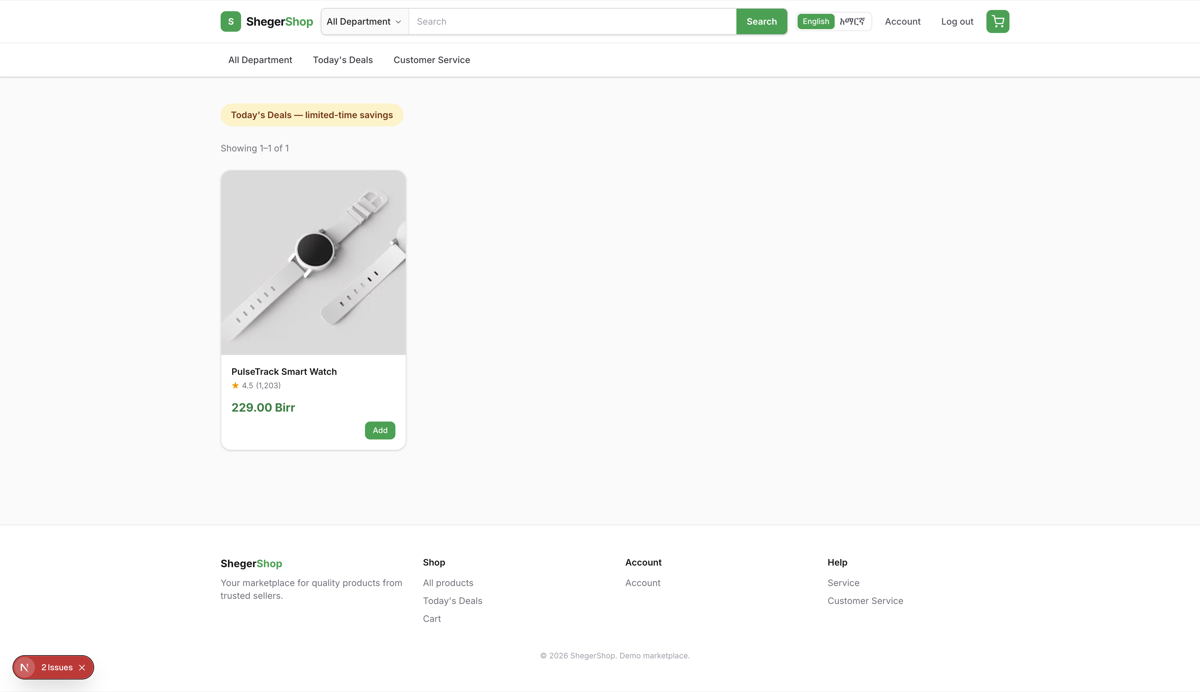
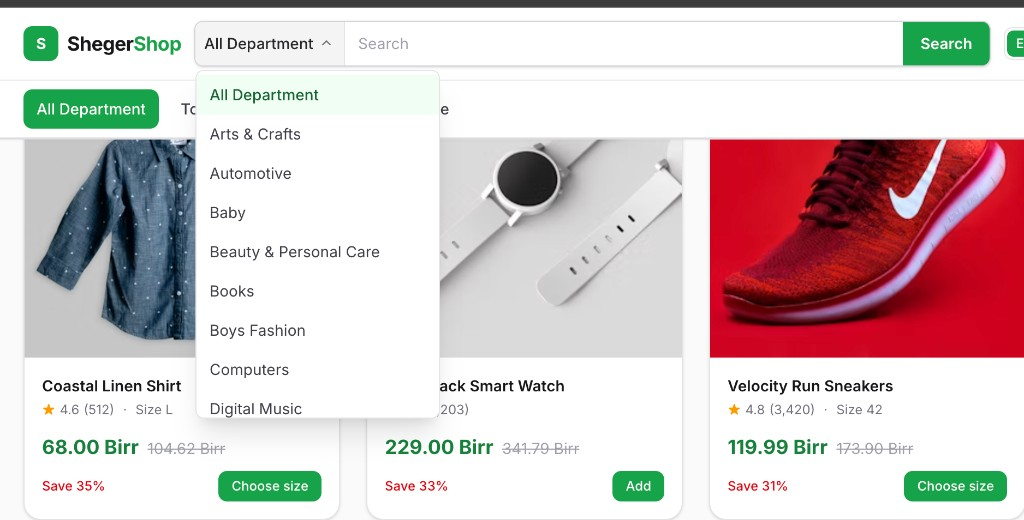
Expand buyer onboarding to a 7-step purchase tour with live screenshots.
Use DB-backed status so the tour still shows when the session JWT is stale, and allow /onboarding images via next/image.

diff --git a/src/components/onboarding/BuyerOnboardingTour.tsx b/src/components/onboarding/BuyerOnboardingTour.tsx
@@ -7,13 +7,24 @@ import { useTranslations } from "@/context/LocaleContext";
 import { useAuth } from "@/hooks/useAuth";
 import { isBuyerRole } from "@/lib/user-role";
 
-const STEP_KEYS = ["welcome", "search", "cart", "account"] as const;
+const STEP_KEYS = [
+  "welcome",
+  "search",
+  "addToCart",
+  "checkout",
+  "deliveryAddress",
+  "payment",
+  "confirmation",
+] as const;
 
 const STEP_IMAGES: Record<(typeof STEP_KEYS)[number], string> = {
   welcome: "/onboarding/welcome.png",
   search: "/onboarding/search.png",
-  cart: "/onboarding/cart.png",
-  account: "/onboarding/account.png",
+  addToCart: "/onboarding/add-to-cart.png",
+  checkout: "/onboarding/checkout.png",
+  deliveryAddress: "/onboarding/delivery-address.png",
+  payment: "/onboarding/payment.png",
+  confirmation: "/onboarding/confirmation.png",
 };
 
 export function BuyerOnboardingTour() {
@@ -30,13 +41,43 @@ export function BuyerOnboardingTour() {
       setOpen(false);
       return;
     }
-    if (user.buyerOnboardingDone) {
-      setOpen(false);
-      return;
-    }
-    setOpen(true);
-    setStep(0);
-  }, [isReady, user, user?.role, user?.buyerOnboardingDone]);
+
+    let cancelled = false;
+    void (async () => {
+      try {
+        const res = await fetch("/api/account/onboarding", {
+          method: "GET",
+          credentials: "same-origin",
+          cache: "no-store",
+        });
+        if (!res.ok) {
+          if (!cancelled && !user.buyerOnboardingDone) {
+            setOpen(true);
+            setStep(0);
+          }
+          return;
+        }
+        const data = (await res.json()) as { buyerOnboardingDone?: boolean };
+        if (cancelled) return;
+        if (data.buyerOnboardingDone) {
+          setOpen(false);
+          if (!user.buyerOnboardingDone) void update().catch(() => undefined);
+          return;
+        }
+        setOpen(true);
+        setStep(0);
+      } catch {
+        if (!cancelled && !user.buyerOnboardingDone) {
+          setOpen(true);
+          setStep(0);
+        }
+      }
+    })();
+
+    return () => {
+      cancelled = true;
+    };
+  }, [isReady, user, user?.role, user?.buyerOnboardingDone, update]);
 
   const complete = useCallback(async () => {
     if (saving) return;
@@ -63,91 +104,95 @@ export function BuyerOnboardingTour() {
 
   return (
     <div
-      className="fixed inset-0 z-[80] flex items-end justify-center bg-zinc-900/50 p-4 sm:items-center"
+      className="fixed inset-0 z-[80] flex items-end justify-center bg-zinc-900/50 p-3 sm:items-center sm:p-4"
       role="dialog"
       aria-modal="true"
       aria-labelledby="buyer-onboarding-title"
     >
-      <div className="flex max-h-[92vh] w-full max-w-md flex-col overflow-hidden rounded-2xl bg-white shadow-2xl sm:max-w-2xl md:max-w-3xl">
-        <div className="relative aspect-[16/10] w-full shrink-0 bg-zinc-100 sm:aspect-[16/9]">
+      <div className="flex w-full max-w-md flex-col overflow-hidden rounded-2xl bg-white shadow-2xl sm:max-w-3xl sm:flex-row">
+        <div className="relative h-40 w-full shrink-0 bg-zinc-100 sm:h-auto sm:w-[48%] sm:min-h-[280px]">
           <Image
             src={STEP_IMAGES[key]}
             alt=""
             fill
             priority
             className="object-cover object-top"
-            sizes="(max-width: 640px) 100vw, 768px"
+            sizes="(max-width: 640px) 100vw, 420px"
           />
         </div>
 
-        <div className="overflow-y-auto p-6 sm:p-8 md:p-10">
-          <p className="text-xs font-semibold uppercase tracking-wide text-brand-600 sm:text-sm">
-            {t("onboarding.stepOf", { current: step + 1, total })}
-          </p>
-          <h2
-            id="buyer-onboarding-title"
-            className="mt-2 text-xl font-bold text-zinc-900 sm:mt-3 sm:text-3xl"
-          >
-            {t(`onboarding.steps.${key}.title`)}
-          </h2>
-          <p className="mt-3 text-sm leading-relaxed text-zinc-600 sm:mt-4 sm:text-lg sm:leading-relaxed">
-            {t(`onboarding.steps.${key}.body`)}
-          </p>
-
-          <div className="mt-6 flex gap-1.5 sm:mt-8 sm:gap-2" aria-hidden>
-            {STEP_KEYS.map((_, i) => (
-              <span
-                key={STEP_KEYS[i]}
-                className={`h-1.5 flex-1 rounded-full sm:h-2 ${
-                  i <= step ? "bg-brand-600" : "bg-zinc-200"
-                }`}
-              />
-            ))}
+        <div className="flex flex-1 flex-col justify-between gap-4 p-5 sm:gap-5 sm:p-7">
+          <div>
+            <p className="text-xs font-semibold uppercase tracking-wide text-brand-600">
+              {t("onboarding.stepOf", { current: step + 1, total })}
+            </p>
+            <h2
+              id="buyer-onboarding-title"
+              className="mt-1.5 text-lg font-bold text-zinc-900 sm:text-2xl"
+            >
+              {t(`onboarding.steps.${key}.title`)}
+            </h2>
+            <p className="mt-2 text-sm leading-relaxed text-zinc-600 sm:text-base">
+              {t(`onboarding.steps.${key}.body`)}
+            </p>
           </div>
 
-          <div className="mt-8 flex flex-col gap-3 sm:mt-10 sm:flex-row-reverse sm:items-center sm:gap-4">
-            <button
-              type="button"
-              disabled={saving}
-              onClick={() => {
-                if (isLast) void complete();
-                else setStep((s) => s + 1);
-              }}
-              className="w-full rounded-xl bg-brand-600 py-3.5 text-sm font-semibold text-white transition hover:bg-brand-700 disabled:opacity-60 sm:flex-1 sm:py-4 sm:text-base"
-            >
-              {isLast ? t("onboarding.startShopping") : t("onboarding.next")}
-            </button>
-            {step > 0 ? (
+          <div>
+            <div className="mb-4 flex gap-1" aria-hidden>
+              {STEP_KEYS.map((_, i) => (
+                <span
+                  key={STEP_KEYS[i]}
+                  className={`h-1.5 flex-1 rounded-full ${
+                    i <= step ? "bg-brand-600" : "bg-zinc-200"
+                  }`}
+                />
+              ))}
+            </div>
+
+            <div className="flex flex-col gap-2 sm:flex-row-reverse sm:items-center sm:gap-3">
               <button
                 type="button"
                 disabled={saving}
-                onClick={() => setStep((s) => s - 1)}
-                className="w-full rounded-xl border border-zinc-300 py-3.5 text-sm font-semibold text-zinc-700 transition hover:bg-zinc-50 disabled:opacity-60 sm:w-auto sm:px-8 sm:py-4 sm:text-base"
+                onClick={() => {
+                  if (isLast) void complete();
+                  else setStep((s) => s + 1);
+                }}
+                className="w-full rounded-xl bg-brand-600 py-3 text-sm font-semibold text-white transition hover:bg-brand-700 disabled:opacity-60 sm:flex-1"
               >
-                {t("onboarding.back")}
+                {isLast ? t("onboarding.startShopping") : t("onboarding.next")}
               </button>
-            ) : (
+              {step > 0 ? (
+                <button
+                  type="button"
+                  disabled={saving}
+                  onClick={() => setStep((s) => s - 1)}
+                  className="w-full rounded-xl border border-zinc-300 py-3 text-sm font-semibold text-zinc-700 transition hover:bg-zinc-50 disabled:opacity-60 sm:w-auto sm:px-6"
+                >
+                  {t("onboarding.back")}
+                </button>
+              ) : (
+                <button
+                  type="button"
+                  disabled={saving}
+                  onClick={() => void complete()}
+                  className="w-full rounded-xl border border-zinc-300 py-3 text-sm font-semibold text-zinc-700 transition hover:bg-zinc-50 disabled:opacity-60 sm:w-auto sm:px-6"
+                >
+                  {t("onboarding.skip")}
+                </button>
+              )}
+            </div>
+
+            {step > 0 && (
               <button
                 type="button"
                 disabled={saving}
                 onClick={() => void complete()}
-                className="w-full rounded-xl border border-zinc-300 py-3.5 text-sm font-semibold text-zinc-700 transition hover:bg-zinc-50 disabled:opacity-60 sm:w-auto sm:px-8 sm:py-4 sm:text-base"
+                className="mt-2 w-full py-1.5 text-center text-sm font-medium text-zinc-500 hover:text-zinc-700 disabled:opacity-60"
               >
                 {t("onboarding.skip")}
               </button>
             )}
           </div>
-
-          {step > 0 && (
-            <button
-              type="button"
-              disabled={saving}
-              onClick={() => void complete()}
-              className="mt-3 w-full py-2 text-center text-sm font-medium text-zinc-500 hover:text-zinc-700 disabled:opacity-60 sm:mt-4 sm:text-base"
-            >
-              {t("onboarding.skip")}
-            </button>
-          )}
         </div>
       </div>
     </div>

diff --git a/src/i18n/messages/am.ts b/src/i18n/messages/am.ts
@@ -209,13 +209,25 @@ export const am: Messages = {
         title: "የሚፈልጉትን ይፈልጉ",
         body: "በላይ ያለውን የፍለጋ አሞሌ በመጠቀም በስም ይፈልጉ ወይም በክፍል ያስሱ።",
       },
-      cart: {
-        title: "ጋሪ እና ክፍያ",
-        body: "እቃዎችን ወደ ጋሪዎ ያክሉ ከዚያ ክፍያ ያጠናቁ። በቴሌብር፣ ቻፓ ወይም በማድረሻ ጊዜ በጥሬ ገንዘብ (COD) መክፈል ይችላሉ።",
+      addToCart: {
+        title: "ወደ ጋሪ ያክሉ",
+        body: "ምርትን ይክፈቱ እና ወደ ጋሪ ያክሉን ይጫኑ። ለክፍያ እስኪዘጋጁ ድረስ እቃዎችዎ ይቀመጣሉ።",
       },
-      account: {
-        title: "መለያዎ",
-        body: "ትዕዛዞችን ለመከታተል፣ መገለጫዎን ለማዘመን እና ዝርዝሮችዎን ለማስተዳደር መለያን ይክፈቱ።",
+      checkout: {
+        title: "ክፍያ",
+        body: "ጋሪዎን ይክፈቱ እና የማድረሻ ዝርዝር ለማስገባት እና ትዕዛዝ ለማስቀመጥ ወደ ክፍያ ይቀጥሉ።",
+      },
+      deliveryAddress: {
+        title: "የማድረሻ አድራሻ ያክሉ",
+        body: "ክልልዎን እና አካባቢዎን ይምረጡ፣ ከዚያ ኩሪየሩ እንዲያገኝዎ የመንገድ አቅጣጫ ያክሉ።",
+      },
+      payment: {
+        title: "ክፍያ ይምረጡ",
+        body: "በቴሌብር፣ ቻፓ ወይም ትዕዛዝዎ ሲደርስ በማድረሻ ጊዜ በጥሬ ገንዘብ (COD) ይክፈሉ።",
+      },
+      confirmation: {
+        title: "የትዕዛዝ ማረጋገጫ",
+        body: "ትዕዛዝ ካስቀመጡ በኋላ የማረጋገጫ ገጽ ያያሉ እና ከመለያ በማንኛውም ጊዜ መከታተል ይችላሉ።",
       },
     },
   },

diff --git a/src/i18n/messages/en.ts b/src/i18n/messages/en.ts
@@ -203,13 +203,25 @@ export const en = {
         title: "Search for what you need",
         body: "Use the search bar at the top to find products by name or browse by department.",
       },
-      cart: {
-        title: "Cart and checkout",
-        body: "Add items to your cart, then checkout. You can pay with Telebirr, Chapa, or cash on delivery (COD).",
+      addToCart: {
+        title: "Add to cart",
+        body: "Open a product and tap Add to cart. Your items are saved until you are ready to checkout.",
       },
-      account: {
-        title: "Your account",
-        body: "Open Account to track orders, update your profile, and manage your details anytime.",
+      checkout: {
+        title: "Checkout",
+        body: "Open your cart and proceed to checkout to enter delivery details and place your order.",
+      },
+      deliveryAddress: {
+        title: "Add delivery address",
+        body: "Choose your region and area, then add street directions so the courier can find you.",
+      },
+      payment: {
+        title: "Choose payment",
+        body: "Pay with Telebirr, Chapa, or cash on delivery (COD) when your order arrives.",
+      },
+      confirmation: {
+        title: "Order confirmation",
+        body: "After you place the order, you will see a confirmation page and can track it anytime from Account.",
       },
     },
   },

diff --git a/src/app/api/account/onboarding/route.ts b/src/app/api/account/onboarding/route.ts
@@ -3,6 +3,29 @@ import { prisma } from "@/lib/db";
 import { requireAuthSession } from "@/lib/require-auth";
 import { isBuyerRole } from "@/lib/user-role";
 
+/** Live onboarding status from DB (JWT can be stale until re-login/update). */
+export async function GET(request: Request) {
+  const auth = await requireAuthSession(request);
+  if ("error" in auth) {
+    return NextResponse.json({ error: auth.error }, { status: auth.status });
+  }
+
+  if (!isBuyerRole(auth.session.user.role)) {
+    return NextResponse.json({ buyerOnboardingDone: true });
+  }
+
+  const user = await prisma.user.findUnique({
+    where: { id: auth.session.user.id },
+    select: { buyerOnboardingCompletedAt: true },
+  });
+
+  return NextResponse.json({
+    buyerOnboardingDone: Boolean(user?.buyerOnboardingCompletedAt),
+    buyerOnboardingCompletedAt:
+      user?.buyerOnboardingCompletedAt?.toISOString() ?? null,
+  });
+}
+
 /** Mark buyer shop-home onboarding as completed (finish or skip). */
 export async function PATCH(request: Request) {
   const auth = await requireAuthSession(request);

diff --git a/next.config.ts b/next.config.ts
@@ -50,6 +50,9 @@ const nextConfig: NextConfig = {
       {
         pathname: "/api/uploads/products/**",
       },
+      {
+        pathname: "/onboarding/**",
+      },
     ],
     remotePatterns: [
       {
